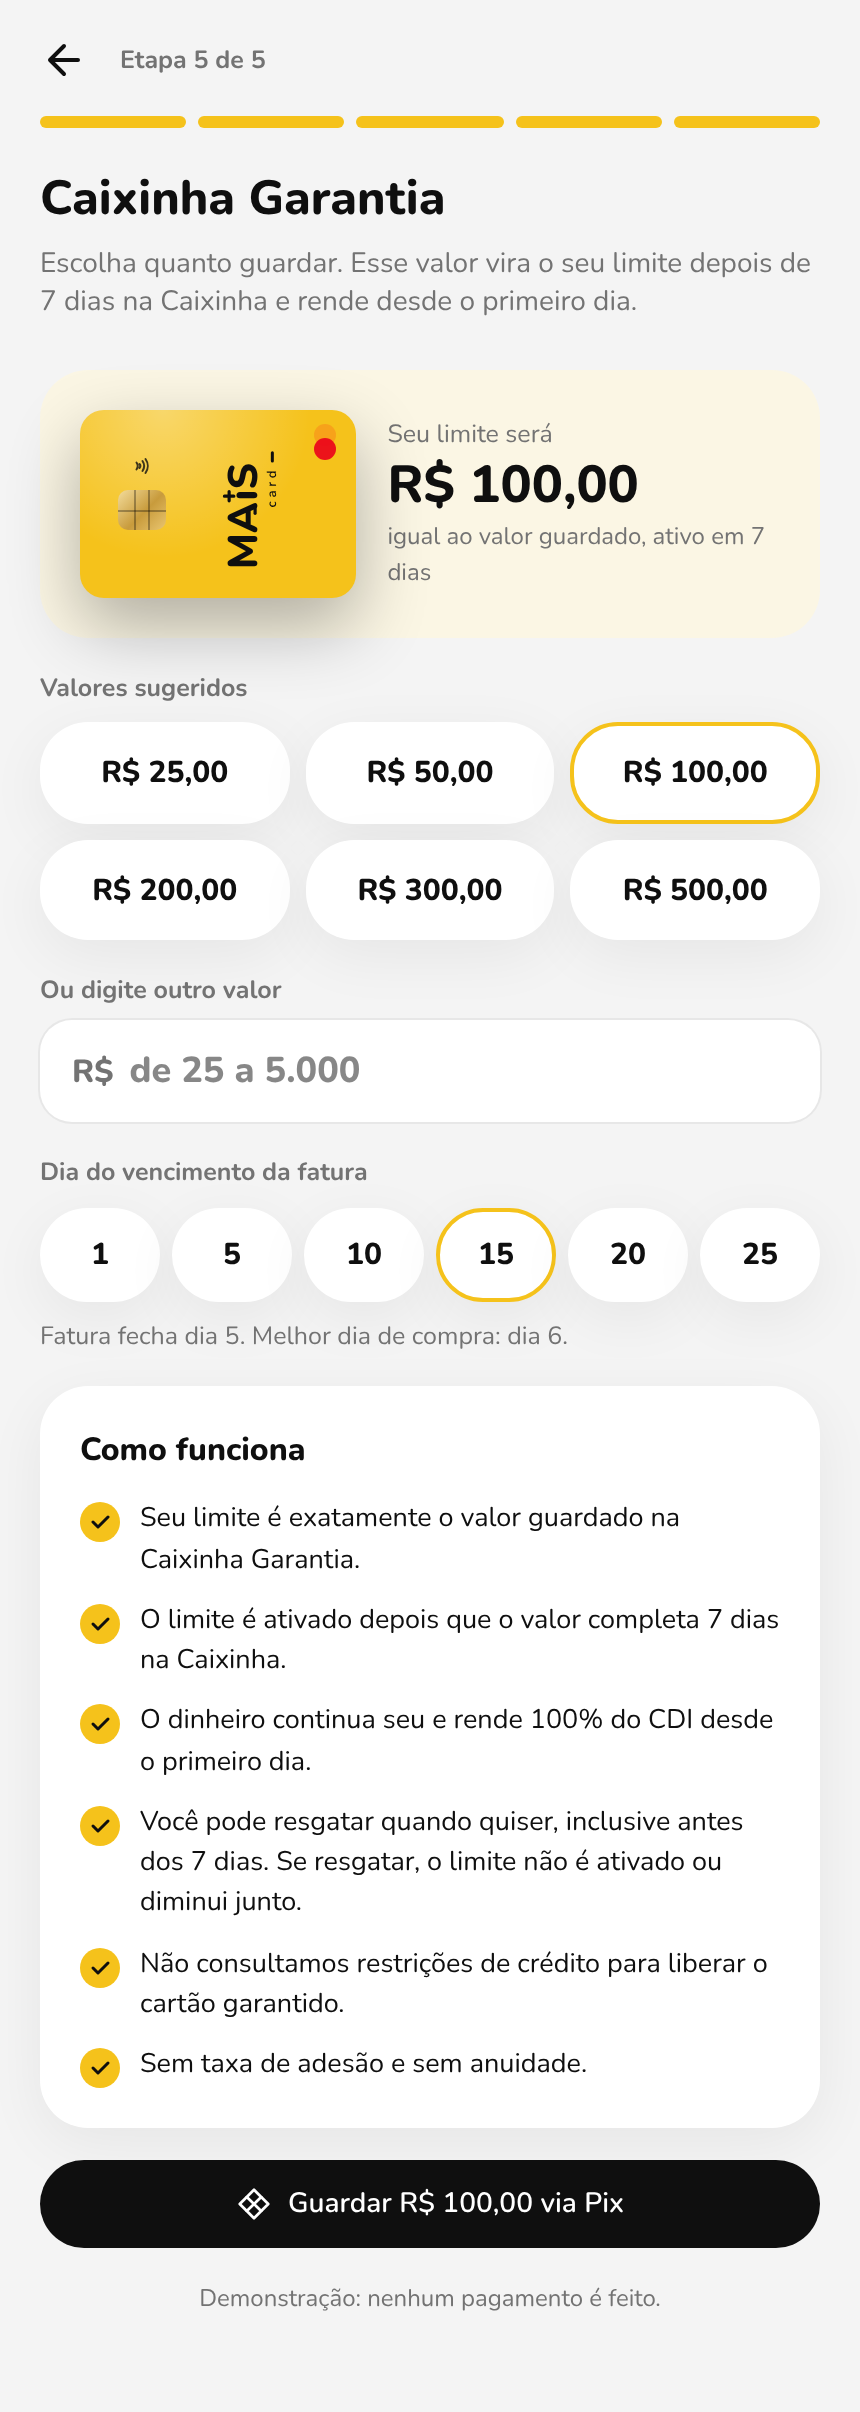
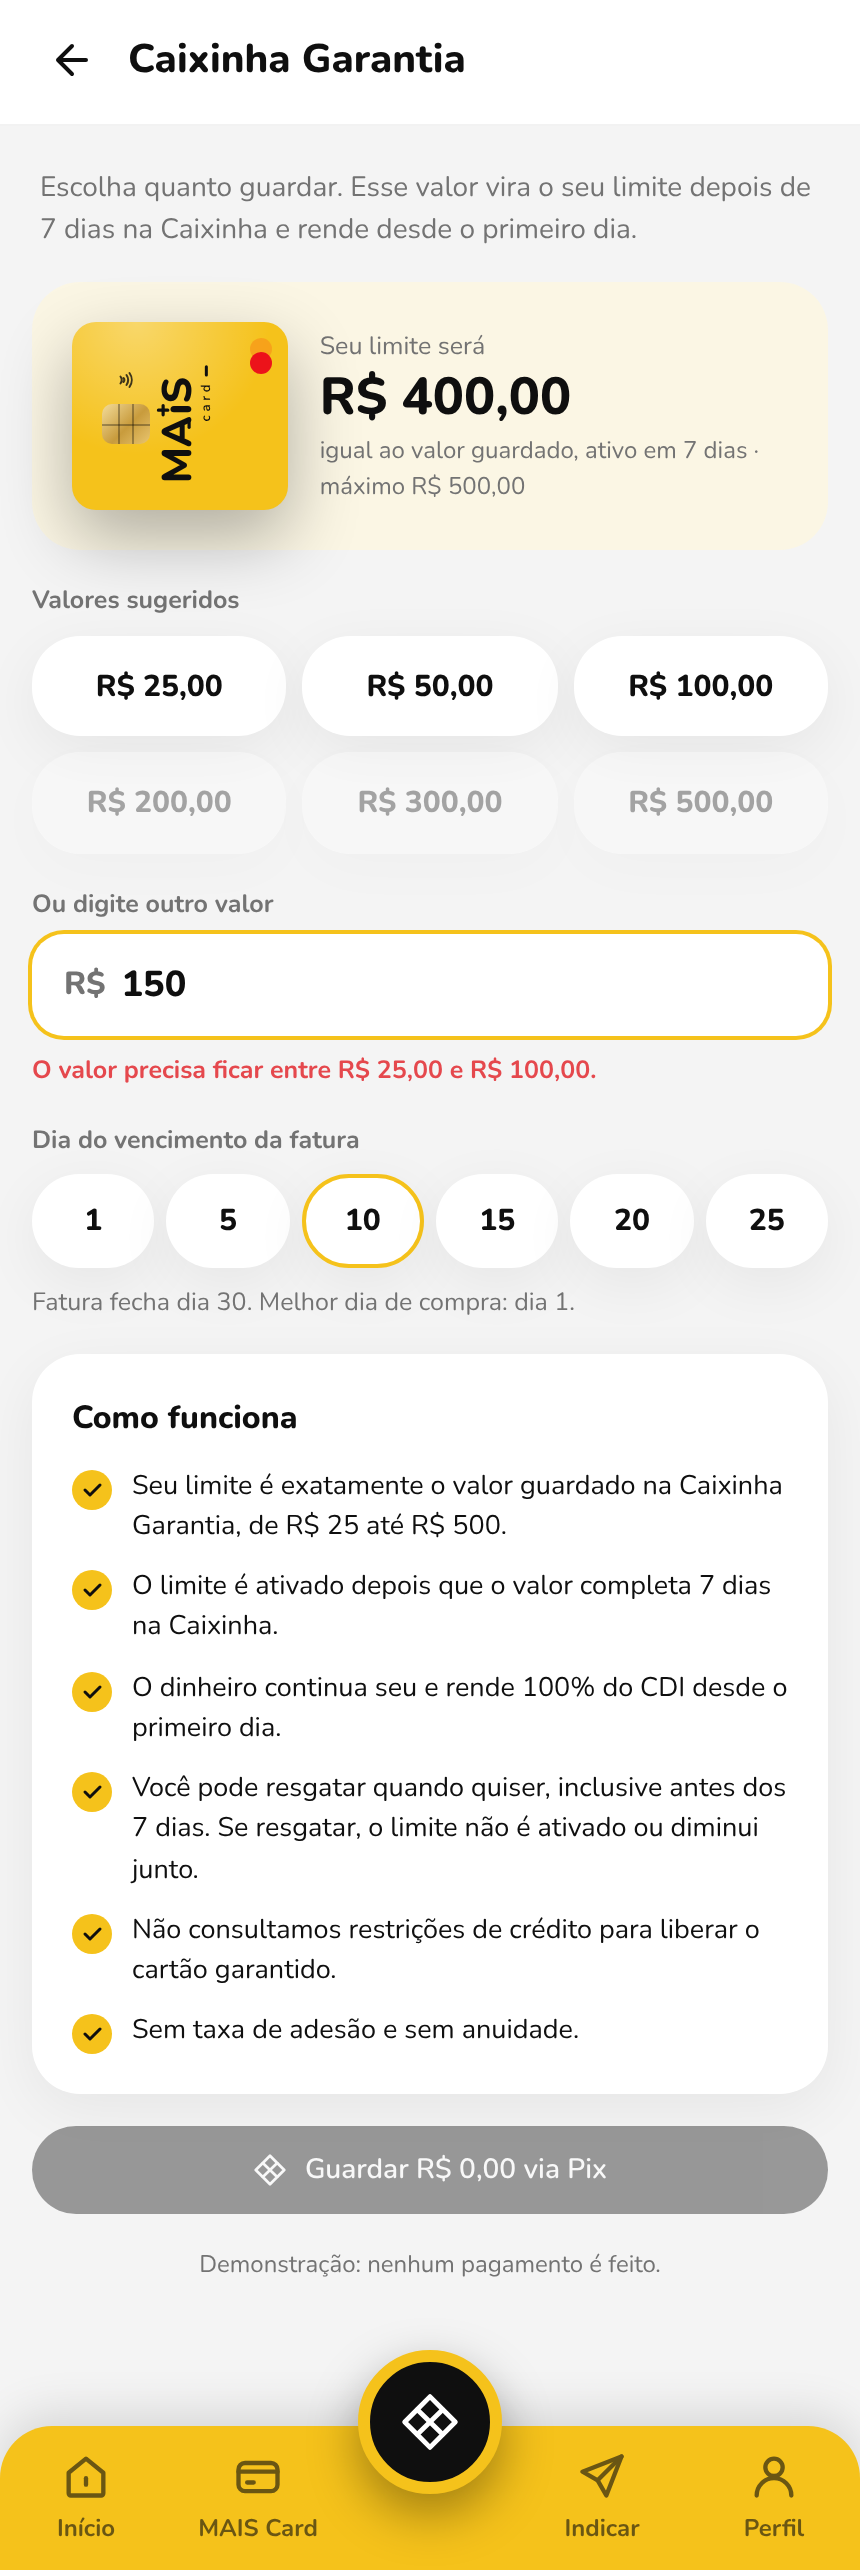
feat(mais-card): limite máximo de R$ 500 na Caixinha Garantia
Teto aplicado na tela da Caixinha (considerando o que já está guardado),
no simulador da landing, nas regras, no FAQ e no mockApi.

Claude-Session: https://claude.ai/code/session_01Hj8YobERgZbyRxa9ocMAUf

diff --git a/mais-card/src/pages/Garantia.tsx b/mais-card/src/pages/Garantia.tsx
@@ -6,6 +6,7 @@ import { CardVirtual } from '../components/CardVirtual'
 import { CheckIcon, PixDiamondIcon } from '../components/Icons'
 import { calcularCiclo, diasVencimento, formatBRL, garantia } from '../data/mock'
 import { api } from '../services/api'
+import { useAsync } from '../hooks/useAsync'
 import { useOnboarding } from '../hooks/useOnboarding'
 
 /** Depois da aprovação: escolher quanto guardar e o dia de vencimento. */
@@ -15,8 +16,11 @@ export function Garantia() {
   const [custom, setCustom] = useState('')
   const [enviando, setEnviando] = useState(false)
   const [erro, setErro] = useState<string | null>(null)
+  const atual = useAsync(() => api.getGarantia())
+  const jaGuardado = atual.data?.valor ?? 0
+  const maximo = Math.max(0, garantia.maximo - jaGuardado)
   const valor = data.valorGarantia
-  const valido = valor >= garantia.minimo && valor <= garantia.maximo
+  const valido = valor >= garantia.minimo && valor <= maximo
   const setValor = (v: number) => update({ valorGarantia: v })
 
   const guardar = async () => {
@@ -43,10 +47,14 @@ export function Garantia() {
           <CardVirtual size="sm" variant="amarelo" />
           <div className="min-w-0">
             <p className="text-[12.5px] text-subtle">Seu limite será</p>
-            <p className="text-[26px] font-extrabold leading-tight">{formatBRL(valido ? valor : 0)}</p>
-            <p className="text-[12px] text-subtle">igual ao valor guardado, ativo em {garantia.carenciaDias} dias</p>
+            <p className="text-[26px] font-extrabold leading-tight">{formatBRL(valido ? jaGuardado + valor : jaGuardado)}</p>
+            <p className="text-[12px] text-subtle">igual ao valor guardado, ativo em {garantia.carenciaDias} dias · máximo {formatBRL(garantia.maximo)}</p>
           </div>
         </section>
+
+        {maximo < garantia.minimo && (
+          <p className="card p-4 text-[13.5px] font-bold text-center">Você já está no limite máximo de {formatBRL(garantia.maximo)}.</p>
+        )}
 
         <section>
           <p className="text-[12.5px] font-bold text-subtle mb-2">Valores sugeridos</p>
@@ -54,7 +62,7 @@ export function Garantia() {
             {garantia.valoresSugeridos.map((v) => {
               const sel = valor === v && !custom
               return (
-                <button key={v} type="button" onClick={() => { setCustom(''); setValor(v) }} className={`card py-3 text-[15px] font-extrabold border-2 transition ${sel ? 'border-brand' : 'border-transparent'}`}>
+                <button key={v} type="button" disabled={v > maximo} onClick={() => { setCustom(''); setValor(v) }} className={`card py-3 text-[15px] font-extrabold border-2 transition disabled:opacity-35 ${sel ? 'border-brand' : 'border-transparent'}`}>
                   {formatBRL(v)}
                 </button>
               )
@@ -73,12 +81,12 @@ export function Garantia() {
                   setCustom(digits)
                   if (digits) setValor(Number(digits))
                 }}
-                placeholder={`de ${garantia.minimo} a ${garantia.maximo.toLocaleString('pt-BR')}`}
+                placeholder={`de ${garantia.minimo} a ${maximo}`}
                 className="w-full bg-transparent py-3 pl-2 text-[18px] font-extrabold outline-none"
               />
             </div>
           </label>
-          {!valido && <p role="alert" className="mt-2 text-[12.5px] font-bold text-danger">O valor precisa ficar entre {formatBRL(garantia.minimo)} e {formatBRL(garantia.maximo)}.</p>}
+          {!valido && maximo >= garantia.minimo && <p role="alert" className="mt-2 text-[12.5px] font-bold text-danger">O valor precisa ficar entre {formatBRL(garantia.minimo)} e {formatBRL(maximo)}.</p>}
         </section>
 
         <section>

diff --git a/mais-card/src/data/mock.ts b/mais-card/src/data/mock.ts
@@ -27,7 +27,7 @@ export const cartao = {
   limiteCompras: 400,
   utilizado: 42.63,
   limiteDisponivel: 357.37,
-  limiteBanner: 800,
+  limiteBanner: 400,
   bandeira: 'Mastercard',
   validade: '10/31',
   bloqueado: false,
@@ -184,11 +184,11 @@ export const quizPerguntas: QuizQuestion[] = [
 export const garantia = {
   valoresSugeridos: [25, 50, 100, 200, 300, 500],
   minimo: 25,
-  maximo: 5000,
+  maximo: 500,
   rendimento: '100% do CDI',
   carenciaDias: 7,
   regras: [
-    'Seu limite é exatamente o valor guardado na Caixinha Garantia.',
+    'Seu limite é exatamente o valor guardado na Caixinha Garantia, de R$ 25 até R$ 500.',
     'O limite é ativado depois que o valor completa 7 dias na Caixinha.',
     'O dinheiro continua seu e rende 100% do CDI desde o primeiro dia.',
     'Você pode resgatar quando quiser, inclusive antes dos 7 dias. Se resgatar, o limite não é ativado ou diminui junto.',
@@ -246,7 +246,7 @@ export const landing = {
     { p: 'Posso resgatar antes dos 7 dias?', r: 'Pode. O dinheiro é seu. Se resgatar antes, o limite não é ativado; se resgatar depois, o limite diminui no mesmo valor.' },
     { p: 'Quem está negativado consegue?', r: 'Sim. O limite é garantido pelo valor guardado, então não consultamos restrições de crédito para aprovar o cartão.' },
     { p: 'Quanto custa?', r: 'Nada para abrir a conta ou pedir o cartão. Sem taxa de adesão e sem anuidade. Juros só existem se a fatura não for paga integralmente, com as taxas informadas no contrato.' },
-    { p: 'O limite pode ser maior que o valor guardado?', r: 'Não. O limite é sempre igual ao valor que está na Caixinha Garantia. Para aumentar o limite, basta guardar mais.' },
+    { p: 'O limite pode ser maior que o valor guardado?', r: 'Não. O limite é sempre igual ao valor que está na Caixinha Garantia, até o máximo de R$ 500. Para aumentar o limite, basta guardar mais, dentro desse teto.' },
     { p: 'Quem emite o cartão?', r: 'O MAIS Card é emitido por uma instituição financeira parceira autorizada pelo Banco Central, com bandeira aceita no Brasil e no exterior.' },
     { p: 'Quando o cartão físico chega?', r: 'Entre 5 e 10 dias úteis após a ativação, no endereço informado no cadastro. O cartão virtual fica disponível no app assim que o limite é ativado.' },
   ],

diff --git a/mais-card/src/pages/Conheca.tsx b/mais-card/src/pages/Conheca.tsx
@@ -26,7 +26,7 @@ export function Conheca() {
           <ul className="text-[13px] font-bold space-y-1.5">
             <li className="flex items-center gap-1.5"><CheckIcon size={14} strokeWidth={3} /> Sem anuidade</li>
             <li className="flex items-center gap-1.5"><CheckIcon size={14} strokeWidth={3} /> Resgate quando quiser</li>
-            <li className="flex items-center gap-1.5"><CheckIcon size={14} strokeWidth={3} /> A partir de {formatBRL(garantia.minimo)}</li>
+            <li className="flex items-center gap-1.5"><CheckIcon size={14} strokeWidth={3} /> Limite de {formatBRL(garantia.minimo)} a {formatBRL(garantia.maximo)}</li>
           </ul>
         </div>
         <button type="button" onClick={() => navigate('/quiz')} className="btn-pill w-full mt-6 gap-2">Começar pelo quiz <ArrowRightIcon size={18} /></button>
@@ -36,14 +36,14 @@ export function Conheca() {
         {/* Simulador */}
         <section className="card p-5 fade-up">
           <h2 className="text-[18px] font-extrabold">Simule o seu limite</h2>
-          <p className="text-[13px] text-subtle mt-1">Arraste para escolher quanto guardar.</p>
+          <p className="text-[13px] text-subtle mt-1">Arraste para escolher quanto guardar, até {formatBRL(garantia.maximo)}.</p>
           <input
             id="simulador"
             type="range"
             min={garantia.minimo}
-            max={2000}
+            max={garantia.maximo}
             step={25}
-            value={Math.min(2000, valor)}
+            value={Math.min(garantia.maximo, valor)}
             onChange={(e) => update({ valorGarantia: Number(e.target.value) })}
             className="w-full mt-4 accent-[#F5C21B]"
             aria-label="Valor a guardar"

diff --git a/mais-card/src/components/GarantiaCard.tsx b/mais-card/src/components/GarantiaCard.tsx
@@ -1,6 +1,6 @@
 import { useNavigate } from 'react-router-dom'
 import { WalletIcon } from './Icons'
-import { diasNaCaixinha, formatBRL, formatDate } from '../data/mock'
+import { diasNaCaixinha, formatBRL, formatDate, garantia as regras } from '../data/mock'
 import type { Garantia } from '../services/types'
 
 /** Resumo da Caixinha Garantia com o progresso da carência de 7 dias. */
@@ -32,7 +32,9 @@ export function GarantiaCard({ garantia }: { garantia: Garantia }) {
           : `Limite de ${formatBRL(garantia.valor)} será ativado em ${formatDate(garantia.liberaEm)}. Rende ${garantia.rendimento} desde o depósito.`}
       </p>
       <div className="mt-4 flex gap-2">
-        <button type="button" onClick={() => navigate('/garantia')} className="btn-pill flex-1 py-2.5 text-[13px]">Guardar mais</button>
+        {garantia.valor < regras.maximo && (
+          <button type="button" onClick={() => navigate('/garantia')} className="btn-pill flex-1 py-2.5 text-[13px]">Guardar mais</button>
+        )}
         <button type="button" className="btn-outline flex-1 py-2.5 text-[13px]">Resgatar</button>
       </div>
     </section>

diff --git a/mais-card/src/services/api.ts b/mais-card/src/services/api.ts
@@ -172,9 +172,11 @@ export const mockApi: Api = {
   },
   async ativarGarantia(valor, diaVencimento) {
     await delay(700)
+    const total = (estado.garantia?.valor ?? 0) + valor
+    if (total > mock.garantia.maximo) throw new Error(`O limite máximo é ${mock.formatBRL(mock.garantia.maximo)}.`)
     const hoje = new Date()
     const garantia: Garantia = {
-      valor: (estado.garantia?.valor ?? 0) + valor,
+      valor: total,
       depositadoEm: hoje.toISOString(),
       liberaEm: addDays(hoje, mock.garantia.carenciaDias).toISOString(),
       carenciaDias: mock.garantia.carenciaDias,

diff --git a/mais-card/README.md b/mais-card/README.md
@@ -48,7 +48,7 @@ push ou SMS além da consulta.
 
 ## Modelo do cartão garantido
 
-O limite é exatamente o valor guardado na Caixinha Garantia e é ativado depois que o valor
+O limite é exatamente o valor guardado na Caixinha Garantia (de R$ 25 a R$ 500) e é ativado depois que o valor
 completa 7 dias lá (carência). O dinheiro continua do cliente, rende desde o primeiro dia e
 pode ser resgatado a qualquer momento, inclusive antes dos 7 dias; nesse caso o limite não é
 ativado ou diminui junto. Não há taxa de adesão nem limite acima do valor guardado. As telas
